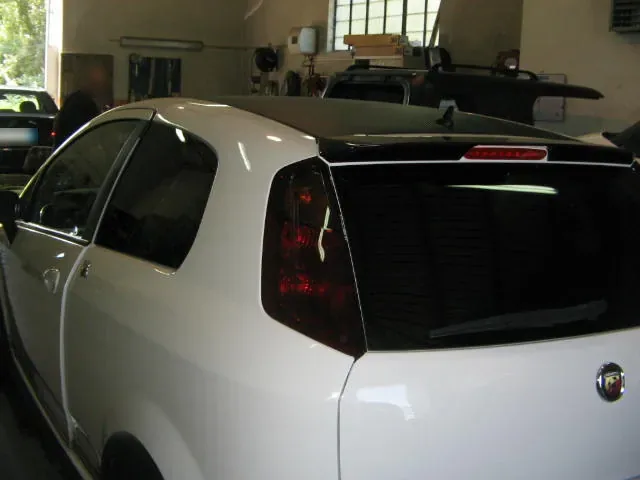
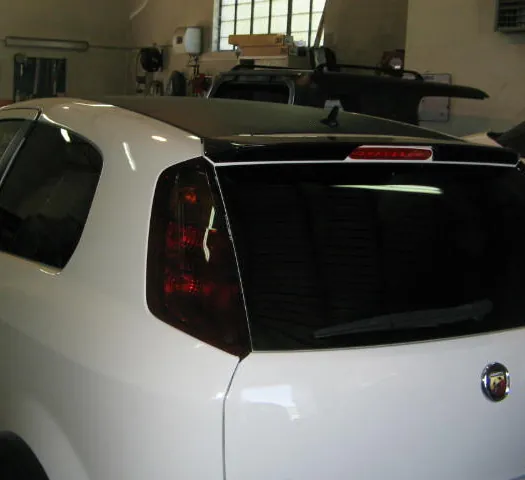
Anteprima r-due-d5dcf7: ricaricata la versione corretta del sito (WhatsApp Damiano in copertina, testi e foto rivisti)

diff --git a/r-due-d5dcf7/js/lavorazioni.js b/r-due-d5dcf7/js/lavorazioni.js
@@ -10,11 +10,11 @@ window.LAVORAZIONI = [
   },
   {
     id: 'verniciature', nome: 'Verniciature',
-    frase: 'Uguale al primo impianto, oppure come non l\'ha mai fatta nessuno.',
+    frase: 'Uguale al primo impianto, oppure opaca, cangiante, bicolore.',
     voci: ['Tradizionali come da primo impianto', 'Pastello, metallizzato, perlato, micalizzato', 'Opache e satinate', 'Camaleontiche e cangianti', 'Bicolore', 'Colore letto con lo spettrofotometro', 'Vernici all\'acqua, in cabina'],
     foto: [
       { src: 'img/lav/verniciature-cabina.webp', w: 900, h: 538, alt: 'BMW Serie 4 in cabina, blu appena spruzzato', dida: 'In cabina, vernice appena stesa' },
-      { src: 'img/lav/verniciature-opaca.webp', w: 640, h: 480, alt: 'Mercedes station wagon in rosso opaco', dida: 'Rosso opaco' },
+      { src: 'img/lav/verniciature-opaca.webp', w: 640, h: 480, pos: '15% 50%', alt: 'Mercedes station wagon in rosso opaco', dida: 'Rosso opaco' },
     ],
   },
   {
@@ -41,8 +41,8 @@ window.LAVORAZIONI = [
     frase: 'Ogni parte dell\'auto ha il suo trattamento. A mano.',
     voci: ['Lucidatura a specchio', 'Swirl, ologrammi, ossidazione, buccia d\'arancia', 'Pulizia e ricondizionamento degli interni', 'Pelle, alcantara, plastiche e cruscotti', 'Sanificazione all\'ozono e del condizionatore', 'Capote', 'Vano motore', 'Anche moto, camper, van, quad, moto d\'acqua, microcar'],
     foto: [
-      { src: 'img/lav/detailing-lucidatura.webp', w: 640, h: 480, mani: true, alt: 'Lucidatura del paraurti di una Porsche nera', dida: 'Lucidatura a mano' },
-      { src: 'img/lav/detailing-porsche.webp', w: 640, h: 480, mani: true, alt: 'Porsche nera in lavorazione in officina', dida: 'Porsche in officina' },
+      { src: 'img/lav/detailing-lucidatura.webp', w: 640, h: 480, alt: 'Al lavoro sul paraurti di una Porsche nera, in officina', dida: 'Al lavoro sul paraurti' },
+      { src: 'img/lav/detailing-porsche.webp', w: 640, h: 480, mani: true, pos: '100% 50%', alt: 'Porsche nera in lavorazione in officina', dida: 'Porsche in officina' },
     ],
   },
   {
@@ -50,8 +50,8 @@ window.LAVORAZIONI = [
     frase: 'Una barriera invisibile che tiene lontano sporco e acqua.',
     voci: ['Carrozzeria, vetri, cerchi, interni e capote', 'Protezione dai raggi UV', 'Idrorepellente', 'Per auto, moto, camper, van e camion', 'Trattamenti per auto wrappate', 'Trattamenti per vernici opache e satinate'],
     foto: [
-      { src: 'img/lav/nano-pistola.webp', w: 422, h: 423, mani: true, alt: 'Applicazione con la pistola sul parafango di un\'auto grigia', dida: 'Applicazione sul parafango' },
       { src: 'img/lav/nano-cupra.webp', w: 900, h: 720, alt: 'Cupra grigio opaco trattata, vista da dietro', dida: 'Cupra trattata su interni, esterni, vetri e cerchi' },
+      { src: 'img/lav/nano-pistola.webp', w: 423, h: 423, mani: true, alt: 'Applicazione con la pistola sul parafango di un\'auto grigia', dida: 'Applicazione sul parafango' },
     ],
   },
   {
@@ -59,8 +59,7 @@ window.LAVORAZIONI = [
     frase: 'Vetri riparati, sostituiti o oscurati.',
     voci: ['Riparazione parabrezza con resina', 'Sostituzione di parabrezza, lunotti e finestrini', 'Polizza cristalli', 'Pellicole oscuranti', 'Fasce parasole sagomate', 'Eliminazione dei graffi dai cristalli', 'Trattamenti idrorepellenti'],
     foto: [
-      { src: 'img/lav/glass-graffi.webp', w: 826, h: 476, mani: true, alt: 'Eliminazione dei graffi dal parabrezza, auto protetta dalla carta', dida: 'Graffi tolti dal parabrezza' },
-      { src: 'img/lav/glass-parabrezza.webp', w: 640, h: 374, mani: true, alt: 'Lavoro sul parabrezza con l\'auto mascherata', dida: 'Auto protetta, si lavora solo sul vetro' },
+      { src: 'img/lav/glass-parabrezza.webp', w: 640, h: 375, mani: true, alt: 'Lavoro sul parabrezza con l\'auto mascherata', dida: 'Auto protetta, si lavora solo sul vetro' },
     ],
   },
   {
@@ -68,15 +67,15 @@ window.LAVORAZIONI = [
     frase: 'Cambi colore con una pellicola. La vernice sotto resta intatta.',
     voci: ['Cambio colore integrale o parziale', 'Tetto, specchi, cofano', 'Opaco, metallizzato, perlato, cromato, carbon look', 'Stampati personalizzati', 'Interni e cruscotti', 'Camper, caravan, van e cargo', 'Moto, scooter, quad, microcar', 'Moto d\'acqua e barche'],
     foto: [
-      { src: 'img/lav/wrapping-ferrari.webp', w: 640, h: 480, mani: true, alt: 'Ferrari F430 grigia rivestita a mano con pellicola bianca', dida: 'Una Ferrari vera, in officina da loro' },
-      { src: 'img/lav/wrapping-ferrari-mani.webp', w: 576, h: 365, mani: true, alt: 'Due persone stendono la pellicola bianca', dida: 'La pellicola si stende in due' },
+      { src: 'img/lav/wrapping-ferrari.webp', w: 640, h: 480, mani: true, alt: 'Ferrari F430 grigia rivestita a mano con pellicola bianca', dida: 'Una Ferrari vera, in officina da noi' },
+      { src: 'img/lav/wrapping-ferrari-mani.webp', w: 576, h: 365, mani: true, pos: '0% 50%', alt: 'Due persone stendono la pellicola bianca', dida: 'La pellicola si stende in due' },
       { src: 'img/lav/wrapping-ferrari-dopo.webp', w: 640, h: 375, alt: 'La stessa Ferrari finita in bianco, di profilo', dida: 'La stessa Ferrari, finita' },
     ],
   },
   {
     id: 'cubicatura', nome: 'Cubicatura',
     frase: 'La decorazione si trasferisce in acqua e poi si vernicia sopra.',
-    voci: ['Calotte specchi, maniglie, modanature', 'Cruscotti, pomelli del cambio, volanti', 'Carene di moto e caschi', 'Effetto carbonio, alluminio spazzolato', 'Radica, legno, marmo, mimetico', 'Finitura trasparente lucida o opaca'],
+    voci: ['Calotte specchi, modanature interne ed esterne', 'Cruscotti, pomelli del cambio, volanti', 'Carene di moto e caschi', 'Effetto carbonio, alluminio spazzolato', 'Radica, legno, marmo, mimetico', 'Finitura trasparente lucida o opaca'],
     foto: [
       { src: 'img/lav/cubicatura-calotta.webp', w: 640, h: 480, alt: 'Calotta dello specchietto cubicata effetto carbonio', dida: 'Calotta effetto carbonio' },
       { src: 'img/lav/cubicatura-specchio.webp', w: 640, h: 480, alt: 'Specchietto cubicato montato su un\'auto azzurra', dida: 'Montata sull\'auto' },
@@ -84,21 +83,21 @@ window.LAVORAZIONI = [
   },
   {
     id: 'illuminazione', nome: 'Illuminazione',
-    frase: 'Fari che tornano trasparenti, e fanali su misura.',
+    frase: 'Fari che tornano trasparenti, fanali più scuri, luci nuove.',
     voci: ['Rigenerazione fari ingialliti o opachi', 'Oscuramento dei fanali posteriori', 'Da alogena a xenon e bixenon', 'Da alogena a LED'],
     nota: 'L\'oscuramento dei fanali e alcune trasformazioni non sono omologati: te lo diciamo prima.',
     foto: [
       { src: 'img/lav/illuminazione-faro.webp', w: 615, h: 408, alt: 'Frontale di Fiat Punto con i fari rigenerati', dida: 'Fari rigenerati' },
-      { src: 'img/lav/illuminazione-fanale.webp', w: 640, h: 480, alt: 'Grande Punto bianca con fanali posteriori scuri', dida: 'Fanali posteriori scuri' },
+      { src: 'img/lav/illuminazione-fanale.webp', w: 525, h: 480, pos: '100% 50%', alt: 'Grande Punto bianca con fanali posteriori scuri', dida: 'Fanali posteriori scuri' },
     ],
   },
   {
     id: 'wheels', nome: 'Wheels',
-    frase: 'Cerchi smontati, verniciati in cabina e rimontati.',
-    voci: ['Verniciatura cerchi in lega, anche bicolore', 'Cerchi di moto e scooter', 'Vendita e montaggio cerchi omologati', 'Kit ruotino di scorta'],
+    frase: 'Cerchi auto e moto in alluminio, magnesio e ferro, verniciati di qualsiasi colore.',
+    voci: ['Verniciatura cerchi in lega, anche bicolore', 'Cerchi di moto e scooter', 'Kit ruotino di scorta'],
     foto: [
-      { src: 'img/lav/wheels-cabina.webp', w: 640, h: 480, alt: 'Cerchi in lega appesi in cabina di verniciatura', dida: 'Cerchi in cabina' },
       { src: 'img/lav/wheels-neri.webp', w: 640, h: 480, alt: 'Cerchi neri appena verniciati', dida: 'Verniciati di nero' },
+      { src: 'img/lav/wheels-cabina.webp', w: 640, h: 480, alt: 'Cerchi in lega appesi in cabina di verniciatura', dida: 'Cerchi in cabina' },
     ],
   },
   {

diff --git a/r-due-d5dcf7/index.html b/r-due-d5dcf7/index.html
@@ -5,7 +5,7 @@
 <meta name="viewport" content="width=device-width, initial-scale=1, viewport-fit=cover">
 <meta name="robots" content="noindex, nofollow">
 <title>Carrozzeria R Due · Pescia</title>
-<meta name="description" content="Carrozzeria R Due di Damiano e Siriano Fedi. Dal 1980, oggi a Pescia, alle Macchie di San Piero. Riparazioni, verniciature, wrapping, detailing, restauro.">
+<meta name="description" content="Carrozzeria R Due di Damiano e Siriano Fedi. Dal 1980. A Pescia, alle Macchie di San Piero. Riparazioni, verniciature, wrapping, detailing, restauro.">
 <meta name="theme-color" content="#0b0b0c">
 <link rel="icon" href="favicon.ico" sizes="32x32">
 <link rel="icon" href="img/icona.svg" type="image/svg+xml">
@@ -54,22 +54,22 @@ if (matchMedia('(prefers-reduced-motion: reduce)').matches) document.documentEle
         <img class="logo-grande" src="img/logo.svg" alt="Carrozzeria R Due, centro servizi per l'auto" width="1064" height="292">
         <div class="apertura-testo">
           <h1>Una macchina entra. <em>Esce come vuoi tu.</em></h1>
-          <p>Damiano e Siriano Fedi. Dal 1980. Oggi a Pescia, alle Macchie di San Piero.</p>
+          <p>Damiano e Siriano Fedi. Dal 1980. A Pescia, alle Macchie di San Piero.</p>
           <div class="azioni">
             <a class="bottone" href="tel:+39057233151"><svg aria-hidden="true"><use href="#i-tel"/></svg>Chiama</a>
-            <a class="bottone vuoto" href="#contatti"><svg aria-hidden="true"><use href="#i-wa"/></svg>WhatsApp</a>
+            <a class="bottone vuoto" href="https://wa.me/393480151978" target="_blank" rel="noopener"><svg aria-hidden="true"><use href="#i-wa"/></svg>WhatsApp Damiano</a>
           </div>
           <span class="giu" aria-hidden="true">Scorri</span>
         </div>
       </div>
 
       <ol class="storia">
-        <li class="frase" data-p="0"><h2>Dal 1980.</h2><p>Damiano e Siriano Fedi sono due fratelli. Questa è una Ferrari di serie. Scorri e guarda cosa le fanno.</p></li>
-        <li class="frase" data-p="1"><h2>Ogni marca, ogni polizza.</h2><p>Riparano danni lievi e danni gravi, su qualsiasi auto, per qualsiasi assicurazione.</p></li>
-        <li class="frase" data-p="2"><h2>650 metri quadri.</h2><p>L'11 aprile 2015 hanno aperto la sede nuova a Pescia, alle Macchie di San Piero. Tutto al coperto.</p></li>
+        <li class="frase" data-p="0"><h2>Dal 1980.</h2><p>Damiano e Siriano Fedi sono due fratelli. Questa è una Ferrari di serie. Scorri e guarda cosa le facciamo.</p></li>
+        <li class="frase" data-p="1"><h2>Ogni marca, ogni polizza.</h2><p>Ripariamo danni lievi e danni gravi, su qualsiasi auto, per qualsiasi assicurazione.</p></li>
+        <li class="frase" data-p="2"><h2>650 metri quadri.</h2><p>L'11 aprile 2015 abbiamo aperto la sede nuova a Pescia, alle Macchie di San Piero. Tutto al coperto.</p></li>
         <li class="frase" data-p="3"><h2>Il colore si misura.</h2><p>Uno spettrofotometro legge la tinta esatta. Poi si vernicia all'acqua, in cabina.</p></li>
         <li class="frase" data-p="4"><h2>Non solo carrozzeria.</h2><p>Wrapping, oscuranti, cubicatura, detailing, restauro. Dodici divisioni, tutte qui.</p></li>
-        <li class="frase" data-p="5"><h2>Lavorano per te.</h2><p>Nessuna convenzione con le assicurazioni: si lavora per chi porta l'auto.</p><p class="nota-ferrari">Questa Ferrari è una ricostruzione. <a href="#lavori">I lavori veri sono qui.</a></p></li>
+        <li class="frase" data-p="5"><h2>Lavoriamo per te.</h2><p>Nessuna convenzione con le assicurazioni: si lavora per chi porta l'auto.</p><p class="nota-ferrari">Questa Ferrari è una ricostruzione. <a href="#lavori">I lavori veri sono qui.</a></p></li>
       </ol>
 
       <div class="passi" aria-hidden="true"><i></i><i></i><i></i><i></i><i></i><i></i></div>
@@ -94,7 +94,7 @@ if (matchMedia('(prefers-reduced-motion: reduce)').matches) document.documentEle
     <header class="intesta">
       <span class="occhiello">Le lavorazioni</span>
       <h2 class="titolo">Dodici divisioni. <em>Una sede.</em></h2>
-      <p>Dalla botta sul parafango alla Ferrari rivestita a mano. Ecco cosa fanno, tutto.</p>
+      <p>Dalla botta sul parafango alla Ferrari rivestita a mano. Ecco cosa facciamo, tutto.</p>
       <div class="linea" data-linea aria-hidden="true"></div>
     </header>
     <div class="reparti">
@@ -134,11 +134,11 @@ if (matchMedia('(prefers-reduced-motion: reduce)').matches) document.documentEle
       <li><b>1</b><h3>Mettiti al sicuro</h3><p>Fermati in un punto sicuro. Se ci sono feriti chiama il 112.</p></li>
       <li><b>2</b><h3>Compila il modulo</h3><p>Constatazione amichevole firmata da entrambi, se si può. Fai qualche foto ai danni.</p></li>
       <li><b>3</b><h3>Chiama Damiano o Siriano</h3><p><a href="tel:+393480151978">348 0151978</a> o <a href="tel:+393480151979">348 0151979</a>. Se l'auto non si muove, si organizza il recupero.</p></li>
-      <li><b>4</b><h3>Della pratica si occupano loro</h3><p>Gestione completa del sinistro, dal ritiro dell'auto alla riconsegna.</p></li>
+      <li><b>4</b><h3>Della pratica ci occupiamo noi</h3><p>Gestione completa del sinistro, dal ritiro dell'auto alla riconsegna.</p></li>
     </ol>
     <dl class="dasapere">
       <div><dt>Il carrozziere lo scegli tu</dt><dd>La tua compagnia può consigliarti una carrozzeria, ma la scelta resta tua. Se la polizza ha clausole particolari, portala e la guardiamo insieme.</dd></div>
-      <div><dt>Zero rischi &amp; zero anticipi</dt><dd>La loro formula per chi ha ragione: ritiri l'auto senza anticipare i soldi. Le condizioni te le spiegano in sede.</dd></div>
+      <div><dt>Zero rischi &amp; zero anticipi</dt><dd>La nostra formula per chi ha ragione: ritiri l'auto senza anticipare i soldi. Le condizioni te le spieghiamo in sede.</dd></div>
       <div><dt>Auto di cortesia</dt><dd>Disponibile secondo regolamento. Chiedi quando chiami.</dd></div>
       <div><dt>Certificato di garanzia</dt><dd>Sui lavori eseguiti viene rilasciato il certificato di garanzia.</dd></div>
     </dl>
@@ -175,7 +175,7 @@ if (matchMedia('(prefers-reduced-motion: reduce)').matches) document.documentEle
     <div class="sede-foto">
       <figure><img src="img/sede/officina.webp" alt="L'officina, con la zona wrapping" width="1200" height="800" loading="lazy"></figure>
       <figure><img src="img/sede/robot.webp" alt="Il box di preparazione con il robot a infrarossi" width="721" height="480" loading="lazy"></figure>
-      <figure><img src="img/sede/ufficio.webp" alt="L'ufficio accoglienza" width="720" height="480" loading="lazy"></figure>
+      <figure><img src="img/sede/ufficio.webp" alt="L'ufficio, con le scrivanie e le tende rosse" width="900" height="600" loading="lazy"></figure>
     </div>
   </section>
 
@@ -213,7 +213,7 @@ if (matchMedia('(prefers-reduced-motion: reduce)').matches) document.documentEle
 <footer class="piede">
   <img src="img/logo-testata.svg" alt="Carrozzeria R Due" width="1050" height="208" loading="lazy">
   <p>Carrozzeria R Due s.n.c. di Damiano e Siriano Fedi · Via Caravaggio 2, 51017 Pescia (PT) · P.IVA 00821990470</p>
-  <p class="onesta">La macchina è una ricostruzione. Le foto dei lavori sono migliorate con l'intelligenza artificiale.</p>
+  <p class="onesta">La Ferrari che gira è una ricostruzione. Le foto dei lavori sono migliorate con l'intelligenza artificiale.</p>
 </footer>
 
 <nav class="barra" aria-label="Contatta la carrozzeria">

diff --git a/r-due-d5dcf7/js/sito.js b/r-due-d5dcf7/js/sito.js
@@ -231,7 +231,7 @@
     a.className = 'reparto' + (i % 2 ? ' pari' : '');
     a.id = 'd-' + d.id;
     var foto = (d.foto || []).map(function (f, j) {
-      return '<figure class="' + (j === 0 ? 'prima' : 'poi') + '"><img src="' + f.src + '" alt="' + f.alt.replace(/"/g, '&quot;') + '" width="' + f.w + '" height="' + f.h + '" loading="lazy"><figcaption>' + (f.dida || '') + '</figcaption></figure>';
+      return '<figure class="' + (j === 0 ? 'prima' : 'poi') + '"><img src="' + f.src + '" alt="' + f.alt.replace(/"/g, '&quot;') + '" width="' + f.w + '" height="' + f.h + '" loading="lazy"' + (f.pos ? ' style="object-position:' + f.pos + '"' : '') + '><figcaption>' + (f.dida || '') + '</figcaption></figure>';
     }).join('');
     var voci = d.voci.map(function (v) { return '<li>' + v + '</li>'; }).join('');
     a.innerHTML =
@@ -261,7 +261,7 @@
   var schede = $('#schede'), boxAuto = $('#box-auto'), corsia = $('#corsia'), boxPassi = $('#box-passi');
   LAV.forEach(function (l, i) {
     var a = document.createElement('article');
-    a.className = 'scheda' + (l.auto ? '' : ' senza-auto');
+    a.className = 'scheda' + (l.auto ? '' : ' senza-auto') + (l.w > l.h ? ' larga' : '');
     a.innerHTML =
       '<div class="scheda-testo"><span class="occhiello">' + pad2(i + 1) + ' / ' + pad2(LAV.length) + ' · ' + l.tipo + '</span>' +
       '<h3><small>' + l.marca + '</small>' + l.nome + '</h3><p>' + l.fatto + '</p></div>' +
@@ -272,6 +272,7 @@
     boxPassi.appendChild(t);
   });
   var schedeEl = $$('.scheda'), passiLav = $$('i', boxPassi);
+  var figureEl = schedeEl.map(function (s) { return $('figure', s); });
 
   function garage(dati) {
     corsia.style.height = (LAV.length * 105 + 30) + 'vh';
@@ -298,7 +299,7 @@
       M.W = W;
       var base = tel ? H - pad - 12 : H - pad - Math.max(26, H * 0.05);
       box.style.setProperty('--base-box', base.toFixed(1) + 'px');
-      rigs.forEach(function (r) {
+      rigs.forEach(function (r, i) {
         if (!r) return;
         var m = r.meta, occupa = (m.coda - m.muso) / m.larghezza, a = m.altezza / m.larghezza;
         var cw = tel ? (W - 12) / occupa : Math.min(W * 0.8, (H * (basso ? 0.36 : 0.46)) / a);
@@ -308,6 +309,11 @@
         r.xVia = W + 40 - m.muso * s;
         r.xFine = -m.coda * s - 40;
         r.y = base - m.base * s;
+        var f = figureEl[i];
+        f.style.maxHeight = '';
+        var tetto = parseFloat(getComputedStyle(f).maxHeight);
+        var spazio = r.y - 12 - (f.getBoundingClientRect().top - box.getBoundingClientRect().top);
+        f.style.maxHeight = Math.max(0, tetto < spazio ? tetto : spazio).toFixed(1) + 'px';
         r.rad = (m.ruote[0] ? m.ruote[0].gomma : 120) * s;
         r.giriE = Math.max(2, Math.round((r.xVia - r.xPark) / (GIRO * r.rad)));
         r.giriU = Math.max(2, Math.round((r.xPark - r.xFine) / (GIRO * r.rad)));

diff --git a/r-due-d5dcf7/js/lavori.js b/r-due-d5dcf7/js/lavori.js
@@ -1,8 +1,8 @@
 window.LAVORI = [
   { id: 'bmw', marca: 'BMW', nome: 'Serie 4', tipo: 'Verniciatura', auto: 'bmw', foto: 'img/lavori/bmw.webp', w: 825, h: 1100, fuoco: '50% 70%', alt: 'BMW Serie 4 blu davanti all\'insegna R Due', fatto: 'Riverniciatura completa dopo danni da atti vandalici. Vetri oscurati.' },
   { id: 'maserati', marca: 'Maserati', nome: 'GranTurismo', tipo: 'Wrapping', auto: 'maserati', foto: 'img/lavori/maserati.webp', w: 880, h: 1100, fuoco: '50% 66%', alt: 'Maserati GranTurismo grigio opaco davanti alla sede', fatto: 'Wrapping integrale in grigio opaco. Prima era bianca.' },
-  { id: 'cupra', marca: 'Cupra', nome: 'VZ5', tipo: 'Pellicola e nanotech', auto: 'cupra', foto: 'img/lavori/cupra.webp', w: 825, h: 1100, fuoco: '50% 66%', alt: 'Cupra grigio opaco sul piazzale', fatto: 'Pellicola antisasso opaca sul frontale. Trattamento nanotech su interni, esterni, vetri e cerchi.' },
+  { id: 'cupra', marca: 'Cupra', nome: 'VZ5', tipo: 'Pellicola e nanotech', auto: 'cupra', foto: 'img/lavori/cupra.webp', w: 825, h: 1100, fuoco: '50% 70%', alt: 'Cupra grigio opaco sul piazzale', fatto: 'Pellicola antisasso opaca sul frontale. Trattamento nanotech su interni, esterni, vetri e cerchi.' },
   { id: 'porsche', marca: 'Porsche', nome: '930 Turbo', tipo: 'Detailing', auto: 'porsche', foto: 'img/lavori/porsche.webp', w: 825, h: 1100, fuoco: '50% 66%', alt: 'Porsche 930 Turbo blu sul piazzale', fatto: 'Decontaminazione profonda, lucidatura e sigillante.' },
-  { id: 'glc', marca: 'Mercedes', nome: 'GLC coupé', tipo: 'Antisasso', auto: 'glc', foto: 'img/lavori/glc.webp', w: 1100, h: 1100, fuoco: '50% 70%', alt: 'Mercedes GLC coupé blu davanti alla sede', fatto: 'Trattamento antisasso completo sul frontale e protezione del parabrezza.' },
+  { id: 'glc', marca: 'Mercedes', nome: 'GLC coupé', tipo: 'Antisasso', auto: 'glc', foto: 'img/lavori/glc.webp', w: 1100, h: 1100, fuoco: '50% 78%', alt: 'Mercedes GLC coupé blu davanti alla sede', fatto: 'Trattamento antisasso completo sul frontale e protezione del parabrezza.' },
   { id: 'megane', marca: 'Renault', nome: 'Megane R Due', tipo: 'Personalizzazione', auto: 'megane', foto: 'img/lavori/megane.webp', w: 1100, h: 722, fuoco: '50% 60%', alt: 'Renault Megane bianca con la grafica R Due', fatto: 'Elaborazione di paraurti e parafanghi, grafica, cerchi e pinze.' },
 ];

diff --git a/r-due-d5dcf7/stile.css b/r-due-d5dcf7/stile.css
@@ -256,6 +256,9 @@ html.fermo .linea{transform:none}
   .scheda figure{max-height:calc(100svh - var(--barra) - 360px);min-height:150px}
   .scheda.senza-auto figure{max-height:calc(100svh - var(--barra) - 270px)}
   .scheda.senza-auto{grid-template-rows:auto minmax(0,1fr)}
+  /* foto più larga che alta: il riquadro prende le sue proporzioni, così l'auto resta intera */
+  .scheda.larga{grid-template-rows:auto auto}
+  .scheda.larga figure,html.fermo .scheda.larga figure{width:100%;height:auto;aspect-ratio:3/2}
   .box-passi{display:none}
 }
 @media (max-height:520px) and (orientation:landscape){
